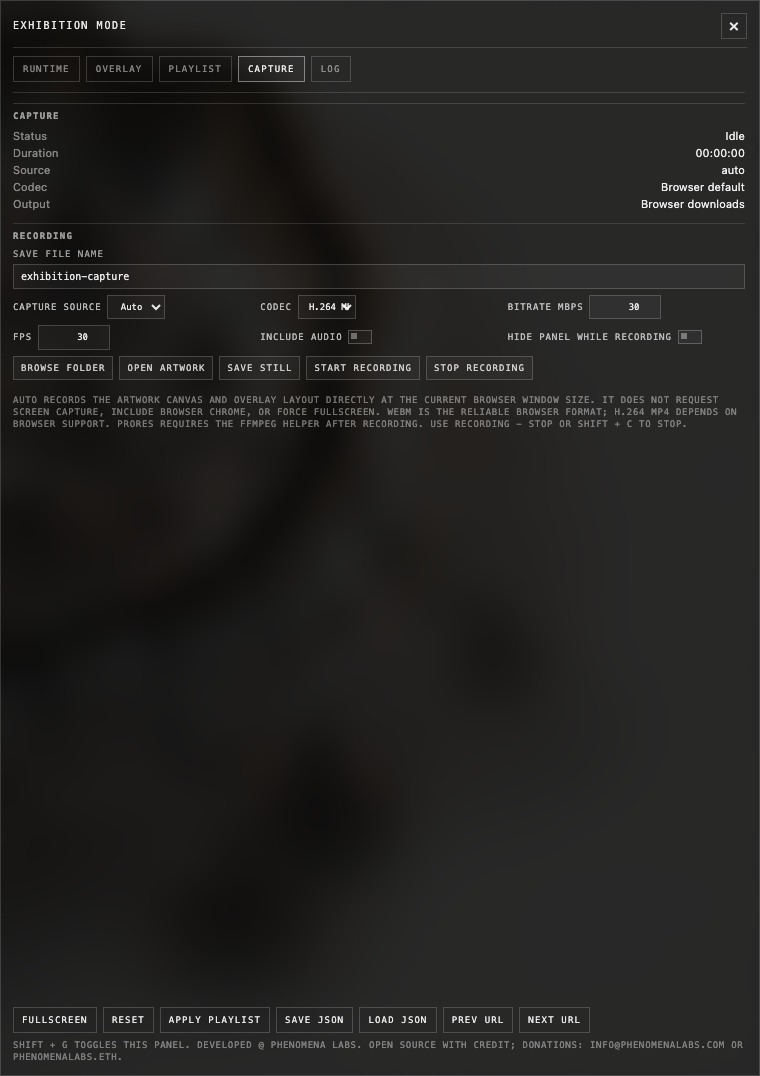
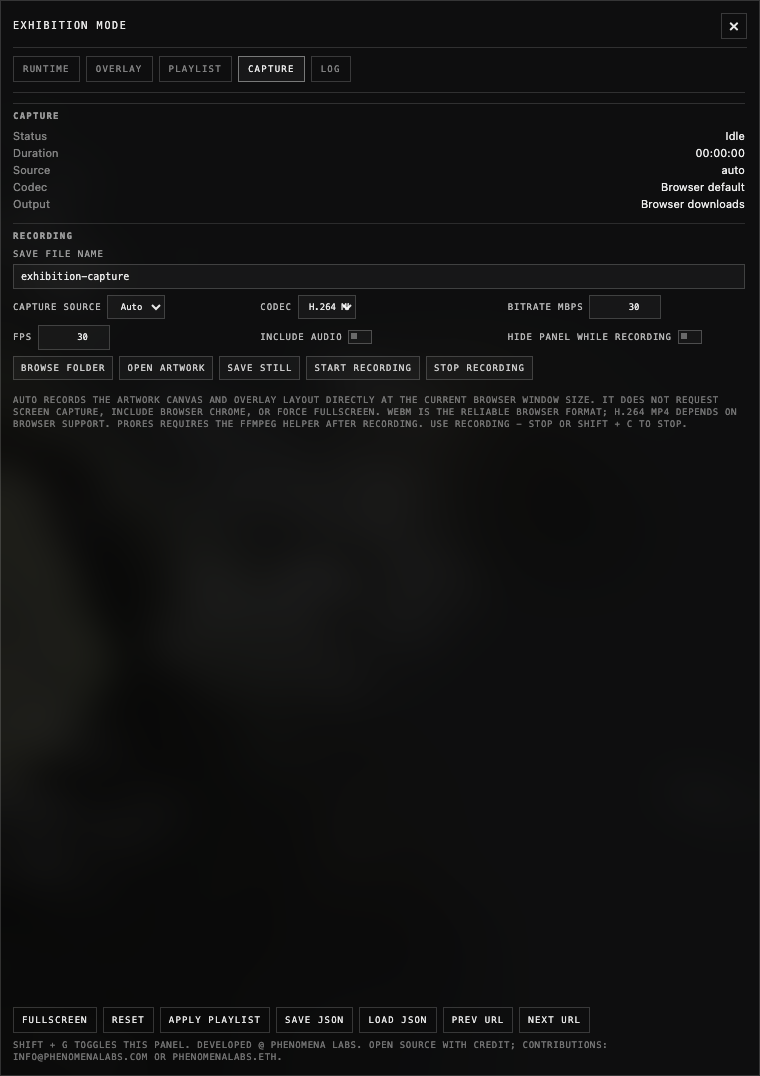
Rename donations to contributions

diff --git a/src/index.js b/src/index.js
@@ -1,5 +1,5 @@
 // p5 Exhibition Mode
-// Developed @ Phenomena Labs. Open source with credit; donations: info@phenomenalabs.com or phenomenalabs.eth.
+// Developed @ Phenomena Labs. Open source with credit; contributions: info@phenomenalabs.com or phenomenalabs.eth.
 
 const DEFAULTS = {
   title: "Untitled Artwork",
@@ -2775,7 +2775,7 @@ function createPanel(config, api) {
       <button type="button" data-action="playlist-next">Next URL</button>
       <input data-input="runtime-config-file" type="file" accept="application/json,.json" hidden>
     </div>
-    <p class="p5em-panel-hint">Shift + ${config.panelKey.toUpperCase()} toggles this panel. Developed @ Phenomena Labs. Open source with credit; donations: info@phenomenalabs.com or phenomenalabs.eth.</p>
+    <p class="p5em-panel-hint">Shift + ${config.panelKey.toUpperCase()} toggles this panel. Developed @ Phenomena Labs. Open source with credit; contributions: info@phenomenalabs.com or phenomenalabs.eth.</p>
   `;
   installPanelDrag(panel);
   panel.addEventListener("pointerdown", (event) => event.stopPropagation());
@@ -4430,8 +4430,8 @@ function injectStyles() {
       margin: 0;
       color: rgba(255,255,255,0.38);
       font-family: ui-monospace, SFMono-Regular, Menlo, Consolas, monospace;
-      font-size: 9px;
-      letter-spacing: 0.08em;
+      font-size: 7px;
+      letter-spacing: 0.06em;
       line-height: 1.25;
       text-transform: uppercase;
     }

diff --git a/README.md b/README.md
@@ -645,7 +645,7 @@ Developed @ Phenomena Labs.
 
 This project is open source under the MIT license. You can use it, adapt it, and include it in exhibition projects. Credit is appreciated when the tool is used publicly, in documentation, or in production installs.
 
-Donations help keep the tool maintained and available for artists. PayPal donations can be sent to `info@phenomenalabs.com`; crypto donations can be sent to `phenomenalabs.eth`.
+Contributions help keep the tool maintained and available for artists. PayPal contributions can be sent to `info@phenomenalabs.com`; crypto contributions can be sent to `phenomenalabs.eth`.
 
 ## License
 
